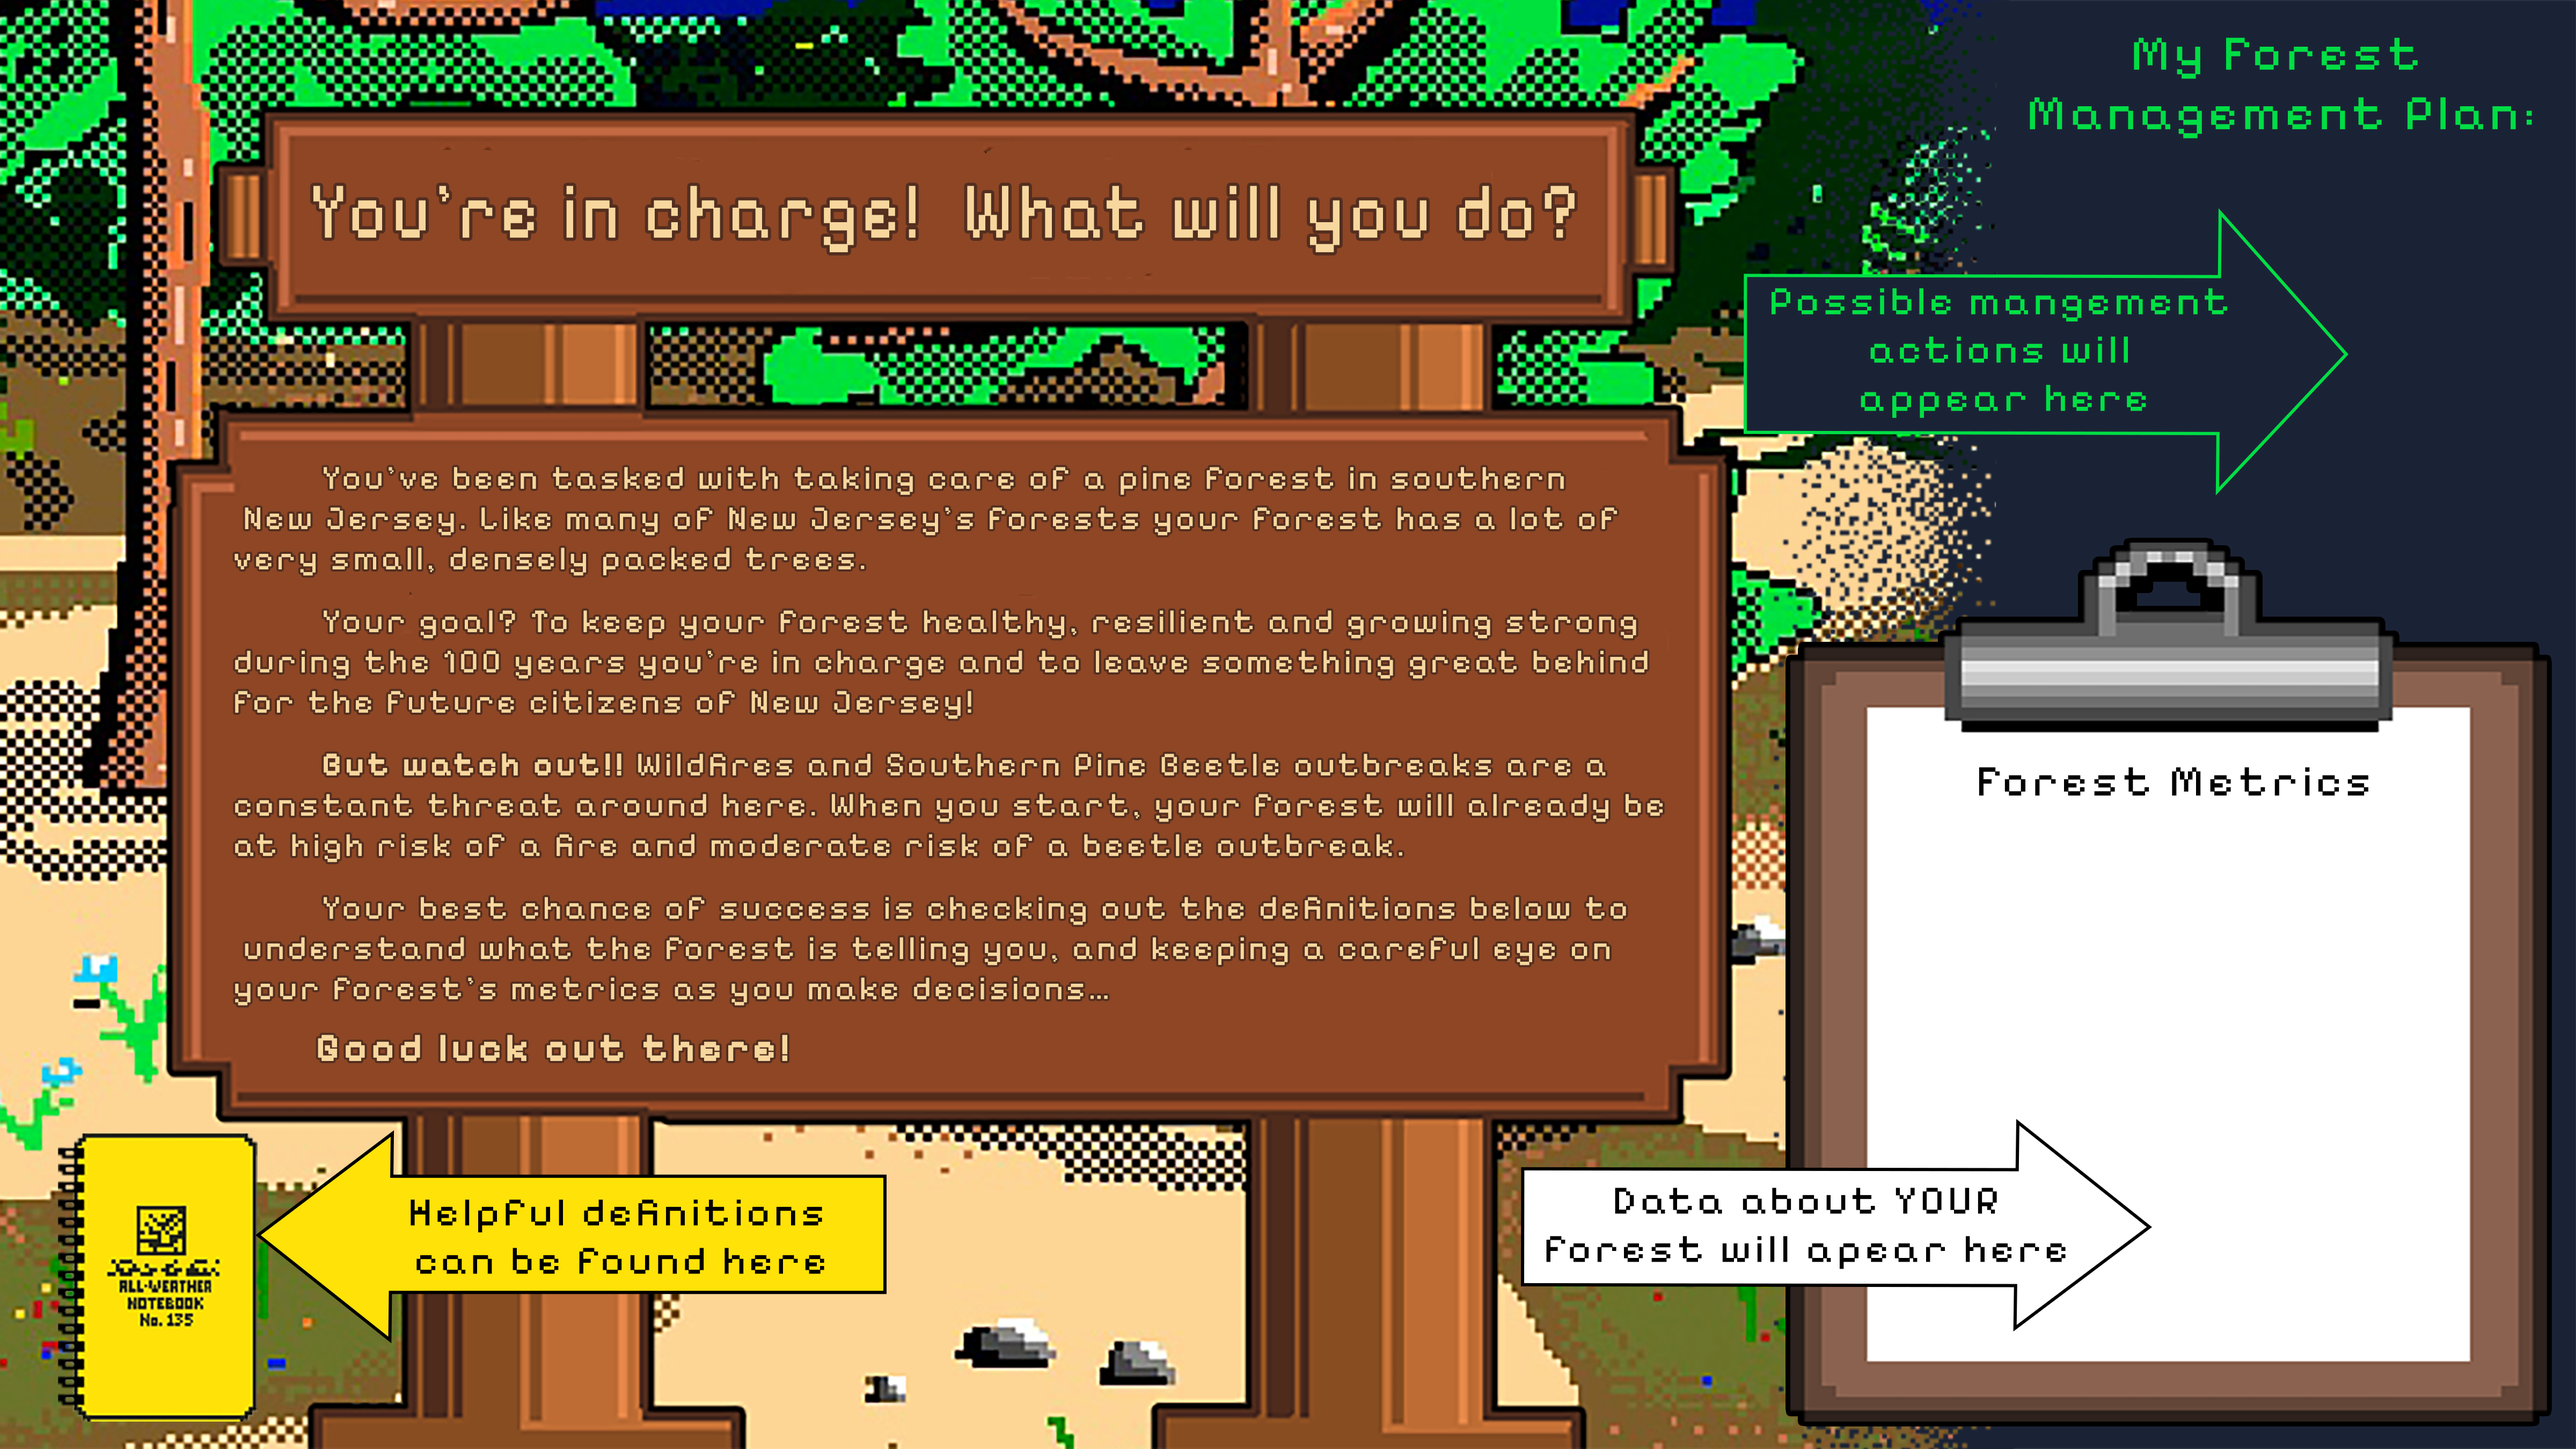
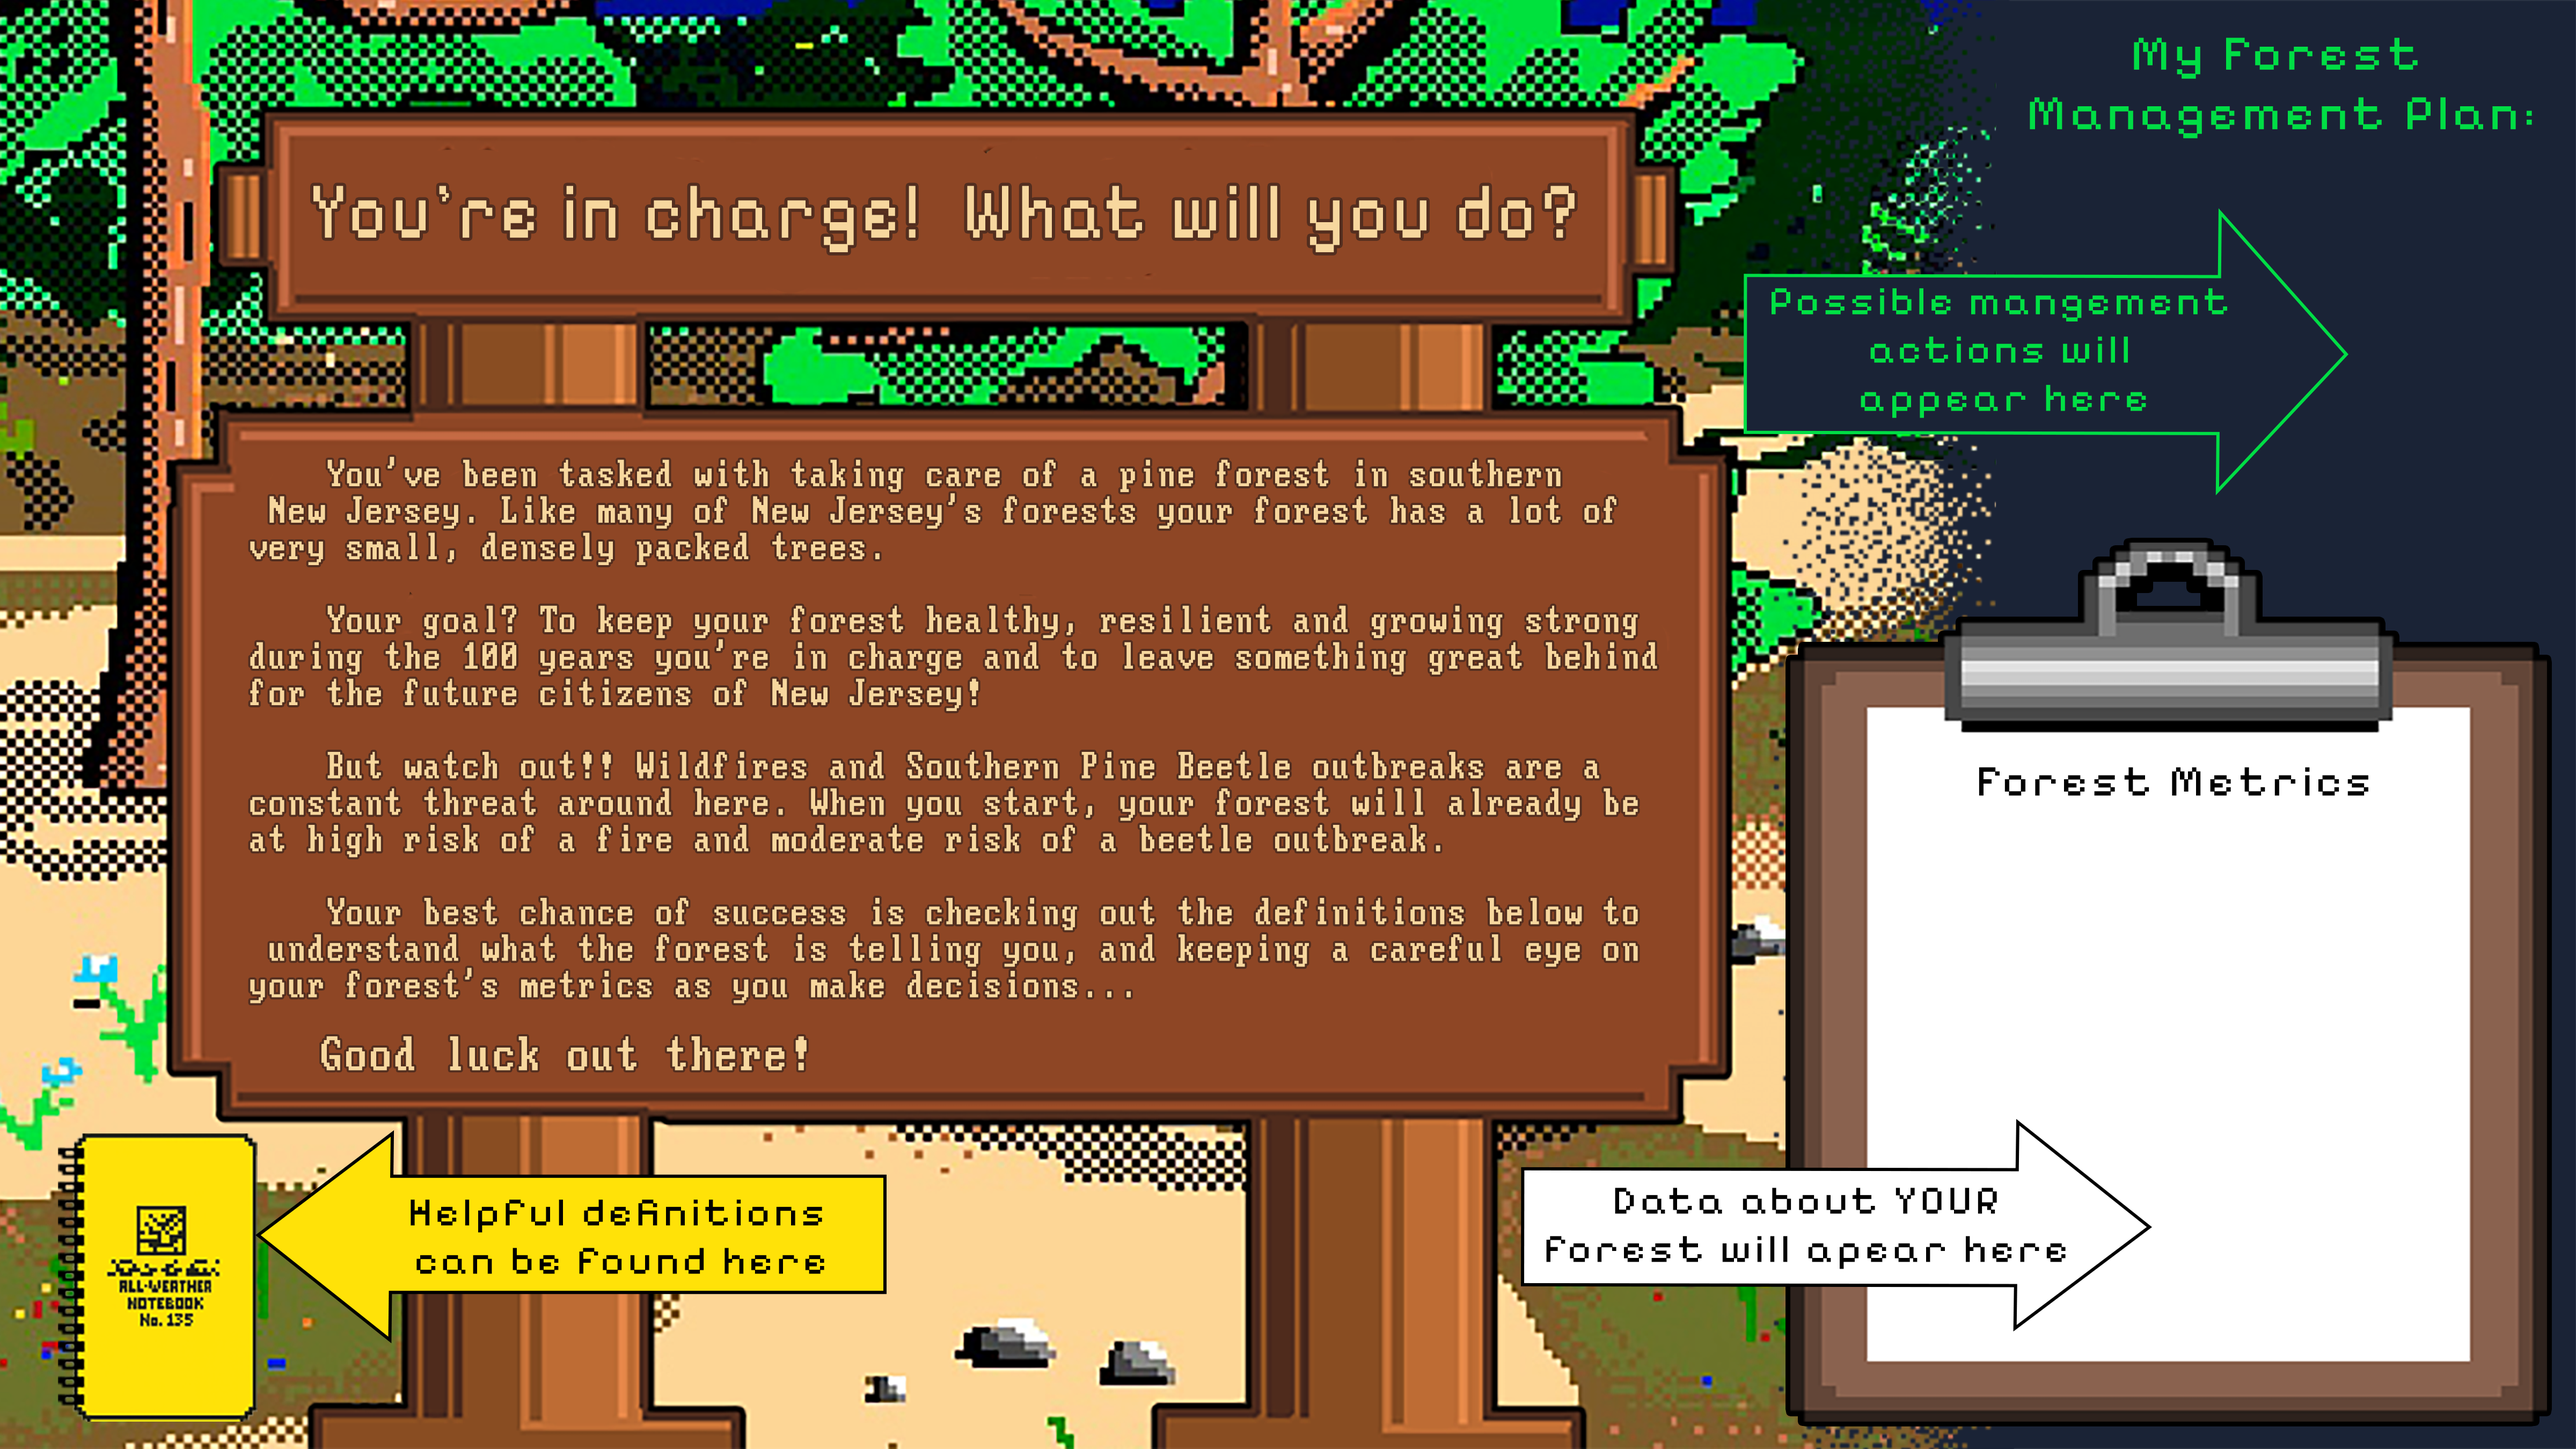
Dev to Main 07/07/2025 (#34)
* Created ppt.bat to start game

* Multiple winning screens and legibility update (#33)

New font used, and medal vs no medal winning screen added. Also added clearing action summary in the game_logic.py so it resets at the end of each round

---------

Changed region(s): [[0.0938, 0.3111, 0.6562, 0.7467]]

diff --git a/src/gui.py b/src/gui.py
@@ -237,8 +237,14 @@ def main():
         closing_frame = tk.Frame(root, bg=BG_COLOR)
         closing_frame.pack(fill="both", expand=True)
 
+        # Choose background image based on pine snake achievement
+        if game.pine_snakes_colonized:
+            bg_img_path = "assets/okay_medal.png"
+        else:
+            bg_img_path = "assets/okay_nomedal.png"
+
         # Load and display the background image in a label
-        bg_img = Image.open("assets/ClosingScreen1.png")
+        bg_img = Image.open(bg_img_path)
         bg_img = bg_img.resize((1920, 1080))
         bg_photo = ImageTk.PhotoImage(bg_img)
         bg_label = tk.Label(closing_frame, image=bg_photo)
@@ -580,7 +586,7 @@ def main():
         snake_frame.pack(fill="both", expand=True)
 
         # Load and display the background image in a label
-        bg_img = Image.open("assets/Pinesnake.jpg")
+        bg_img = Image.open("assets/pinesnake.png")
         bg_img = bg_img.resize((1920, 1080))
         bg_photo = ImageTk.PhotoImage(bg_img)
         bg_label = tk.Label(snake_frame, image=bg_photo)
@@ -856,8 +862,8 @@ def main():
         tk.Button(
             def_frame, text="Return to Game", font=("Courier", 18, "bold"), width=16,
             bg="#e21fae", fg="#000000", activebackground="#FFFFFF",
-            command=lambda: [def_frame.pack_forget(), show_game_screen()]
-        ).place(relx=0.225, rely=0.90, anchor="center")
+            command=lambda: [play_page_close_sound(), def_frame.pack_forget(), show_game_screen()]
+        ).place(relx=0.225, rely=0.915, anchor="center")
 
     # Start the main event loop
     #show_closing_screen()  # <-- TEMP: Jump directly to screen for testing
@@ -953,6 +959,13 @@ def stop_wind_sound():
             play_wind_sound.channel.stop()
     except Exception as e:
         print("Error stopping wind sound:", e)
+
+def play_page_close_sound():
+    try:
+        sound = pygame.mixer.Sound("assets/page_close.wav")
+        sound.play()
+    except Exception as e:
+        print("Error playing page close sound:", e)
 
 if __name__ == "__main__":
     main()

diff --git a/src/game_logic.py b/src/game_logic.py
@@ -73,6 +73,7 @@ class Game:
             'catastrophic_wildfire': False
         }
 
+        self.action_history = []  # Clear the action history
         self.low_ba_count = 0
         self.pine_snakes_colonized = False
 
